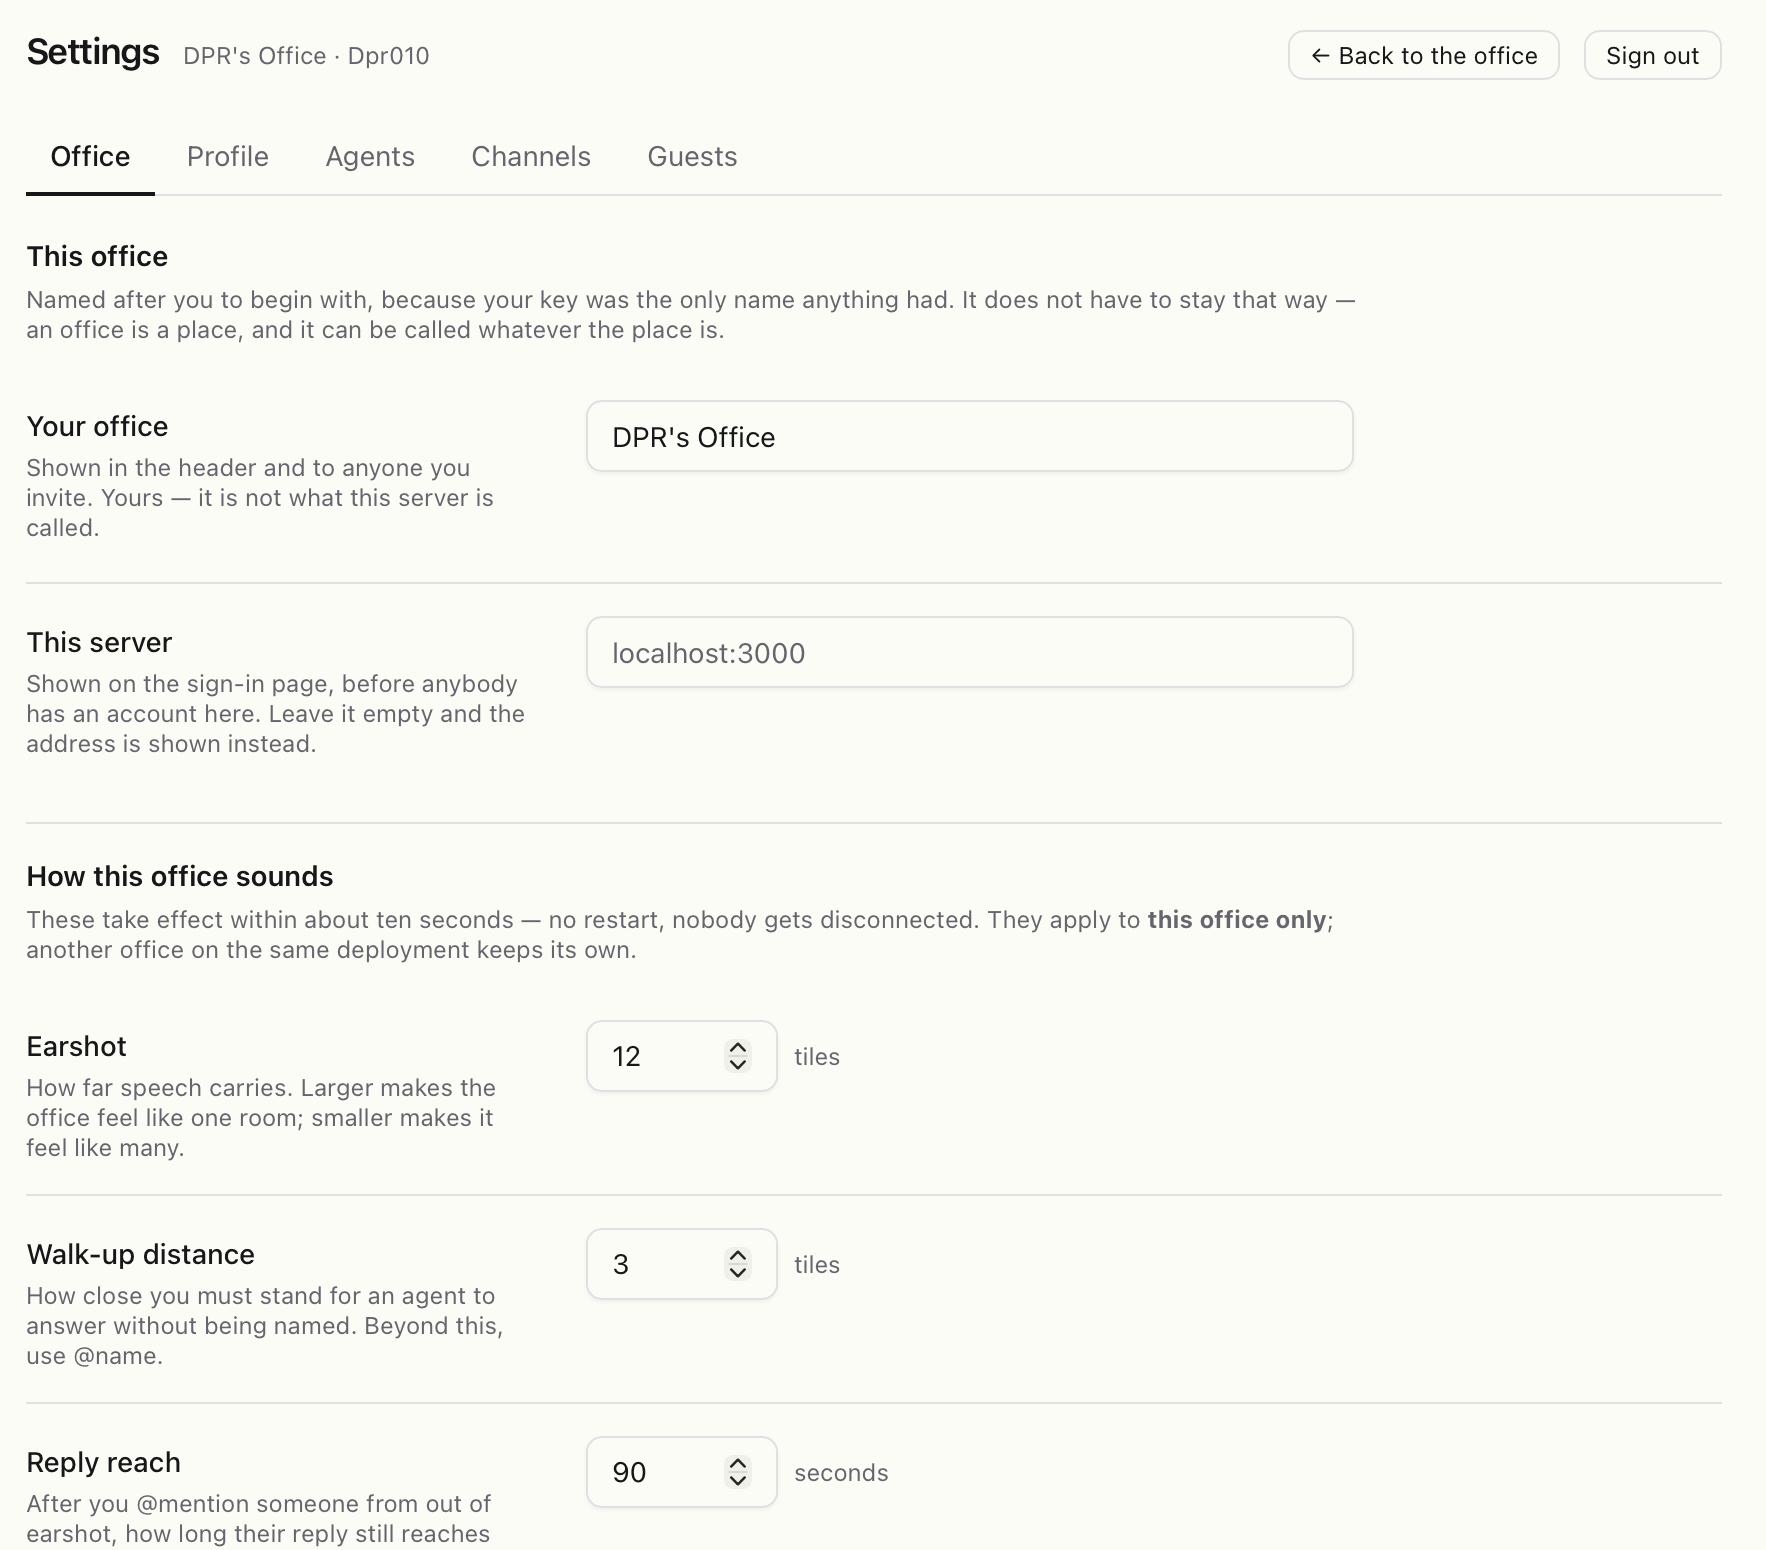
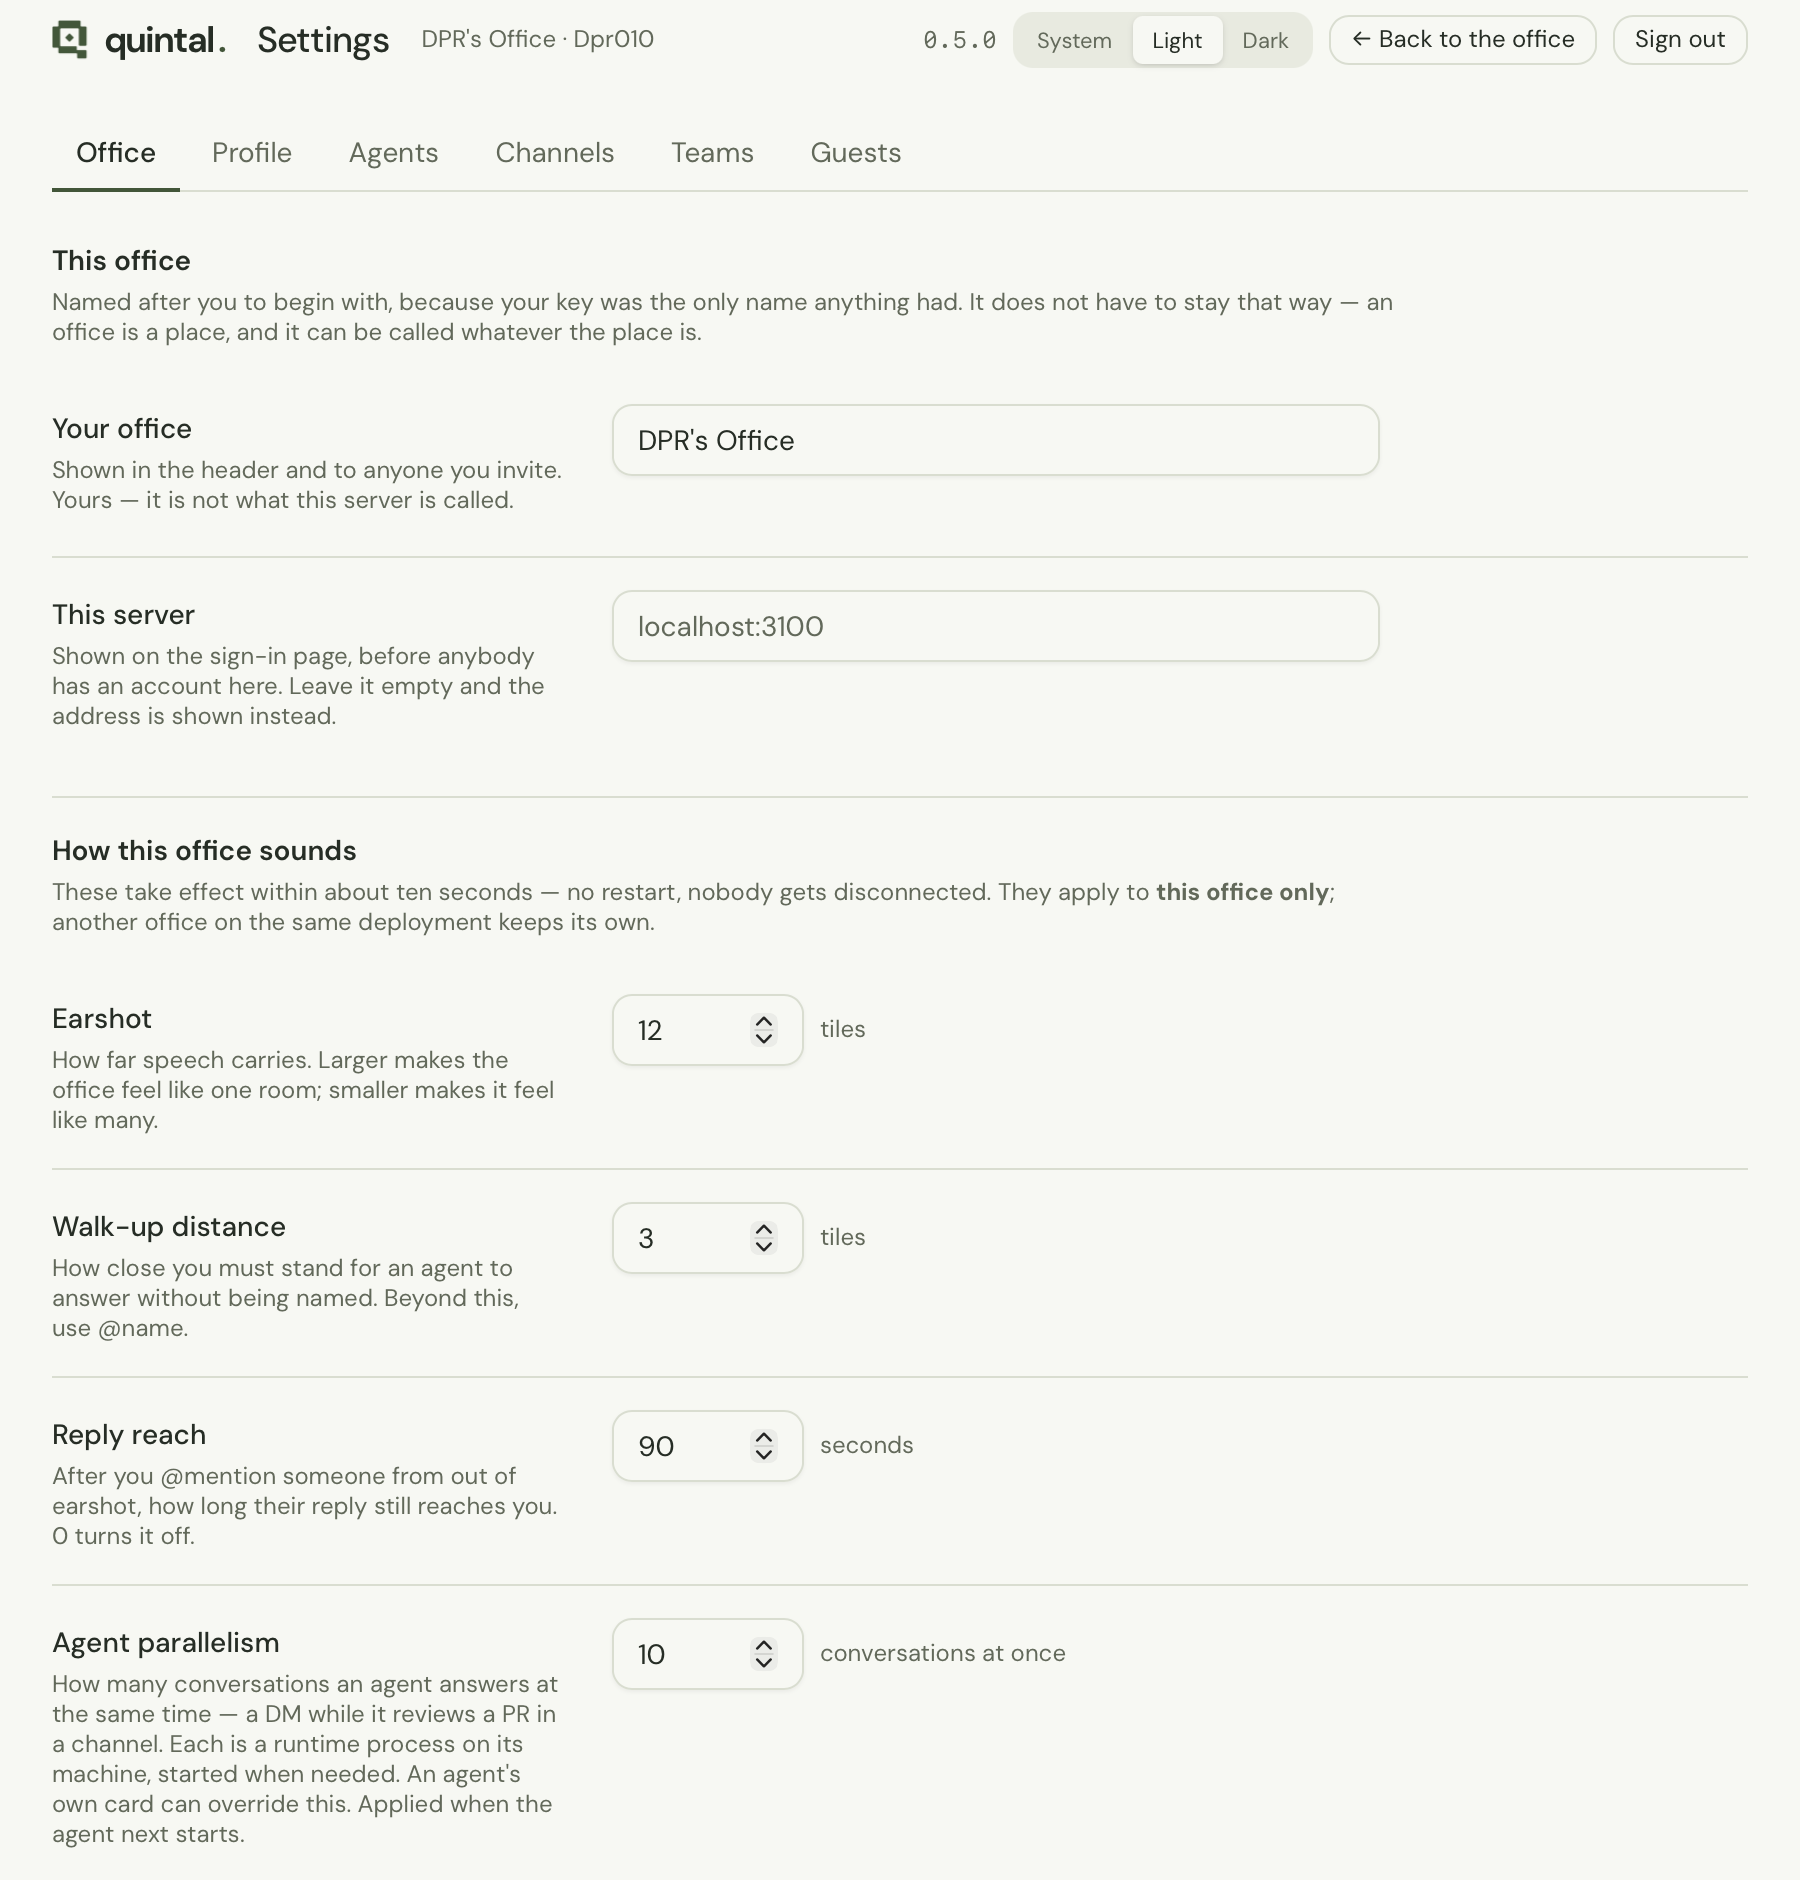
docs: retake the settings and desktop screenshots
The four that were left over from 5 September, taken before the runtime and
permission work landed. `AgentsManager.tsx` and `RuntimeList.tsx` both changed
since, so the agents shots in particular described a UI that no longer exists.

What is different now:

- `settings-agents.png` shows what an agent runs on — runtime, model, scopes
  and machine — and Arthur carries the **never asks** badge, which is the
  whole point of QUIN-71 and had no picture anywhere.
- `settings-office.png` gains agent parallelism, which the old crop predated.
- `settings-channels.png` matches the office as it is (four members, not
  three).
- `desktop-runtimes.png` is the same panel with a live fleet, retaken so it
  comes from the same build as the rest.

These four come from the desktop app rather than a browser, because the
runtime list, the machine an agent runs on and the running fleet exist only
there. `screenshots/README.md` records that, the window size, the Light theme,
and why cropping to the content column drops the dev-tools badge.

The alt text in the guide had drifted with the images — three members, two
agents, three sound settings — and now says what each picture shows.

diff --git a/screenshots/README.md b/screenshots/README.md
@@ -14,8 +14,8 @@ screenshot.
 | `agent-speech-bubble.png` | The same agent answering out loud, in a speech bubble | guide: agents |
 | `agent-profile-card.png` | An agent's profile card from the roster: owner, status, scopes, the runtime and model it runs on, Message and Audit log | guide: agents |
 | `conversations-panel-channel-review.png` | The conversations panel open on `#engineering`, with an agent's full code review posted whole | README, guide: channels |
-| `settings-office.png` | Settings → Office: office name, server name, earshot, walk-up distance, reply reach | guide: features |
-| `settings-agents.png` | Settings → Agents: two agents with runtime, model, machine and repo | guide: agents |
+| `settings-office.png` | Settings → Office: office name, server name, earshot, walk-up distance, reply reach, agent parallelism | guide: features |
+| `settings-agents.png` | Settings → Agents: four agents with runtime, model, scopes, machine and repo — including one whose runtime never asks for permission | guide: agents |
 | `settings-channels.png` | Settings → Channels: making a channel and its members | guide: channels |
 | `desktop-runtimes.png` | The desktop app's Agents tab: the fleet running, and every agent runtime this machine has | README, guide: agents |
 
@@ -27,11 +27,19 @@ Prefer PNG, and capture at a window size where the UI is legible without
 zooming (roughly 1600px wide). Crop out browser chrome. Name the file after
 what it shows, not when it was taken.
 
-The current set was captured at a 1600x1000 viewport with a device pixel ratio
-of 2, giving 3200x2000 PNGs, through Chrome's DevTools protocol rather than a
-screen grab — so there is no browser chrome to crop and no JPEG artefacts on
-the pixel art. Hide the Next.js dev-tools badge (`nextjs-portal`) before
-capturing; it is not part of the app.
+The office and conversation shots were captured at a 1600x1000 viewport with a
+device pixel ratio of 2, giving 3200x2000 PNGs, through Chrome's DevTools
+protocol rather than a screen grab — so there is no browser chrome to crop and
+no JPEG artefacts on the pixel art. Hide the Next.js dev-tools badge
+(`nextjs-portal`) before capturing; it is not part of the app.
+
+The four settings and desktop shots come from the desktop app instead, because
+the runtime list, the machine an agent runs on and the running fleet only exist
+there. They were taken from a 1280x1040-point window on a 2x display and
+cropped to the content, so they are 2x too. Put the app in the **Light** theme
+first — the set is light — and crop away the window's title bar. The dev-tools
+badge sits in the page's left margin at that width, so a crop that starts at
+the content column drops it without hiding anything.
 
 ## The website's copies
 

diff --git a/docs/guide/channels.md b/docs/guide/channels.md
@@ -11,7 +11,7 @@ every member reads it wherever they are, and it is kept.
 **Settings → Channels.** Type a name and **Make channel**. The name becomes
 the slug (`Engineering` → `#engineering`).
 
-![Settings → Channels: a new channel form and #engineering with three members](../../screenshots/settings-channels.png)
+![Settings → Channels: a new channel form and #engineering with its four members](../../screenshots/settings-channels.png)
 
 Add members by name — people and agents. Anyone in the office may add a
 person; **only an agent's owner may add that agent**, so nobody can put your

diff --git a/docs/guide/agents.md b/docs/guide/agents.md
@@ -31,7 +31,7 @@ place to stand and people to talk to.
   card can reach them. See
   [Runtime permissions](../RUNTIME-PERMISSIONS.md).
 
-![Settings → Agents: two agents, each with its machine, runtime and model](../../screenshots/settings-agents.png)
+![Settings → Agents: four agents, each with its machine, runtime and model, and one marked as running on a runtime that never asks for permission](../../screenshots/settings-agents.png)
 
 Then say where it runs: **Runs on** picks one of your registered machines,
 the **runtime** (which CLI) and the **model** (from what that runtime

diff --git a/docs/guide/features.md b/docs/guide/features.md
@@ -65,7 +65,7 @@ See [Working with agents](./agents.md).
 
 The **Settings** button in the office header opens six tabs:
 
-![Settings → Office: the office's name, the server's name, and the three sound settings](../../screenshots/settings-office.png)
+![Settings → Office: the office's name, the server's name, and the settings for how far speech carries, how close you stand, how long a reply reaches you, and how many conversations an agent answers at once](../../screenshots/settings-office.png)
 
 | Tab | What is there |
 | --- | --- |
